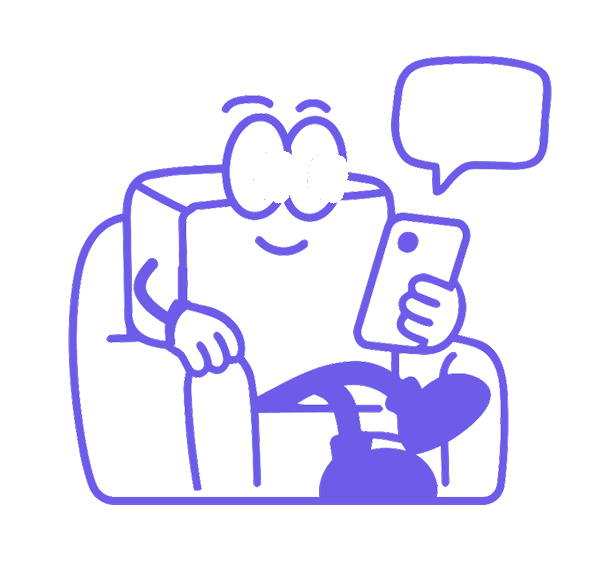
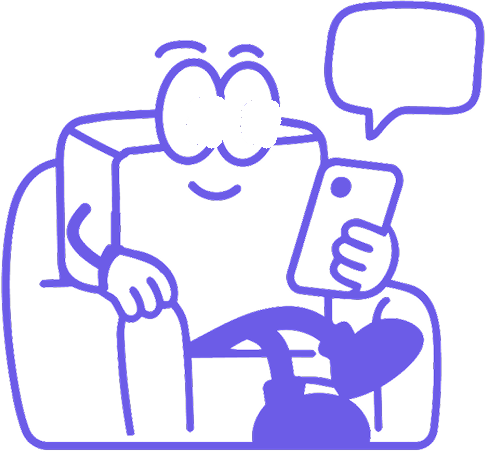
Livvi: chat mascot flush on the photo and flush right
The layers had transparent margins, which left a visible gap under the
chair and pushed it away from the right edge. They are trimmed to the
drawing itself, so it now sits directly on the photo and lines up with
its right edge at every width.

Changed region(s): [[0.0, 0.0, 1.0, 1.0]]

diff --git a/livvi.html b/livvi.html
@@ -8,7 +8,7 @@
 <link rel="icon" type="image/png" sizes="16x16" href="images/favicon-16.png?v=4">
 <link rel="apple-touch-icon" href="images/apple-touch-icon.png?v=4">
 <link rel="stylesheet" href="https://api.fontshare.com/v2/css?f[]=switzer@400,500,600,700&display=swap">
-<link rel="stylesheet" href="css/style.css?v=78">
+<link rel="stylesheet" href="css/style.css?v=79">
 </head>
 <body>
 
@@ -61,11 +61,11 @@
   <div class="project-images">
     <div class="row reveal has-mascot big">
       <div class="chat-mascot flip" aria-hidden="true">
-      <img class="cm-base" src="images/livvi/chat-base.png" alt="" width="602" height="577">
-      <img class="cm-pupils" src="images/livvi/chat-pupils.png" alt="" width="602" height="577">
-      <img class="cm-dot cm-dot1" src="images/livvi/chat-dot1.png" alt="" width="602" height="577">
-      <img class="cm-dot cm-dot2" src="images/livvi/chat-dot2.png" alt="" width="602" height="577">
-      <img class="cm-dot cm-dot3" src="images/livvi/chat-dot3.png" alt="" width="602" height="577">
+      <img class="cm-base" src="images/livvi/chat-base.png" alt="" width="486" height="451">
+      <img class="cm-pupils" src="images/livvi/chat-pupils.png" alt="" width="486" height="451">
+      <img class="cm-dot cm-dot1" src="images/livvi/chat-dot1.png" alt="" width="486" height="451">
+      <img class="cm-dot cm-dot2" src="images/livvi/chat-dot2.png" alt="" width="486" height="451">
+      <img class="cm-dot cm-dot3" src="images/livvi/chat-dot3.png" alt="" width="486" height="451">
       </div>
       <img src="images/livvi/mockup_screens.jpg" alt="Livvi app screens on iPhones" width="2000" height="1333" style="--ar:1.5004">
     </div>

diff --git a/index.html b/index.html
@@ -8,7 +8,7 @@
 <link rel="icon" type="image/png" sizes="16x16" href="images/favicon-16.png?v=4">
 <link rel="apple-touch-icon" href="images/apple-touch-icon.png?v=4">
 <link rel="stylesheet" href="https://api.fontshare.com/v2/css?f[]=switzer@400,500,600,700&display=swap">
-<link rel="stylesheet" href="css/style.css?v=78">
+<link rel="stylesheet" href="css/style.css?v=79">
 <script>
 /* the entrance animation plays once per visit: hide the page until it starts */
 try {

diff --git a/css/style.css b/css/style.css
@@ -741,10 +741,10 @@ footer {
 .chat-mascot {
   position: absolute;
   flex: none;
-  right: 2%;
-  bottom: calc(100% - 10px);
+  right: 0;
+  bottom: calc(100% - 5px);
   height: var(--mh, 150px);
-  aspect-ratio: 602 / 577;
+  aspect-ratio: 486 / 451;
   pointer-events: none;
   user-select: none;
 }
@@ -768,7 +768,6 @@ footer {
     --mh: clamp(300px, 27vw, 380px);
     margin-top: 0;
   }
-  .chat-mascot { right: 0; }
 }
 
 .cm-dot {

diff --git a/espacio-emocional.html b/espacio-emocional.html
@@ -8,7 +8,7 @@
 <link rel="icon" type="image/png" sizes="16x16" href="images/favicon-16.png?v=4">
 <link rel="apple-touch-icon" href="images/apple-touch-icon.png?v=4">
 <link rel="stylesheet" href="https://api.fontshare.com/v2/css?f[]=switzer@400,500,600,700&display=swap">
-<link rel="stylesheet" href="css/style.css?v=78">
+<link rel="stylesheet" href="css/style.css?v=79">
 </head>
 <body>
 

diff --git a/madma.html b/madma.html
@@ -8,7 +8,7 @@
 <link rel="icon" type="image/png" sizes="16x16" href="images/favicon-16.png?v=4">
 <link rel="apple-touch-icon" href="images/apple-touch-icon.png?v=4">
 <link rel="stylesheet" href="https://api.fontshare.com/v2/css?f[]=switzer@400,500,600,700&display=swap">
-<link rel="stylesheet" href="css/style.css?v=78">
+<link rel="stylesheet" href="css/style.css?v=79">
 </head>
 <body>
 

diff --git a/san-isidro.html b/san-isidro.html
@@ -8,7 +8,7 @@
 <link rel="icon" type="image/png" sizes="16x16" href="images/favicon-16.png?v=4">
 <link rel="apple-touch-icon" href="images/apple-touch-icon.png?v=4">
 <link rel="stylesheet" href="https://api.fontshare.com/v2/css?f[]=switzer@400,500,600,700&display=swap">
-<link rel="stylesheet" href="css/style.css?v=78">
+<link rel="stylesheet" href="css/style.css?v=79">
 </head>
 <body>
 

diff --git a/sol-sal.html b/sol-sal.html
@@ -8,7 +8,7 @@
 <link rel="icon" type="image/png" sizes="16x16" href="images/favicon-16.png?v=4">
 <link rel="apple-touch-icon" href="images/apple-touch-icon.png?v=4">
 <link rel="stylesheet" href="https://api.fontshare.com/v2/css?f[]=switzer@400,500,600,700&display=swap">
-<link rel="stylesheet" href="css/style.css?v=78">
+<link rel="stylesheet" href="css/style.css?v=79">
 </head>
 <body>
 

diff --git a/tame-impala.html b/tame-impala.html
@@ -8,7 +8,7 @@
 <link rel="icon" type="image/png" sizes="16x16" href="images/favicon-16.png?v=4">
 <link rel="apple-touch-icon" href="images/apple-touch-icon.png?v=4">
 <link rel="stylesheet" href="https://api.fontshare.com/v2/css?f[]=switzer@400,500,600,700&display=swap">
-<link rel="stylesheet" href="css/style.css?v=78">
+<link rel="stylesheet" href="css/style.css?v=79">
 </head>
 <body>
 

diff --git a/xoko.html b/xoko.html
@@ -8,7 +8,7 @@
 <link rel="icon" type="image/png" sizes="16x16" href="images/favicon-16.png?v=4">
 <link rel="apple-touch-icon" href="images/apple-touch-icon.png?v=4">
 <link rel="stylesheet" href="https://api.fontshare.com/v2/css?f[]=switzer@400,500,600,700&display=swap">
-<link rel="stylesheet" href="css/style.css?v=78">
+<link rel="stylesheet" href="css/style.css?v=79">
 </head>
 <body>
 
